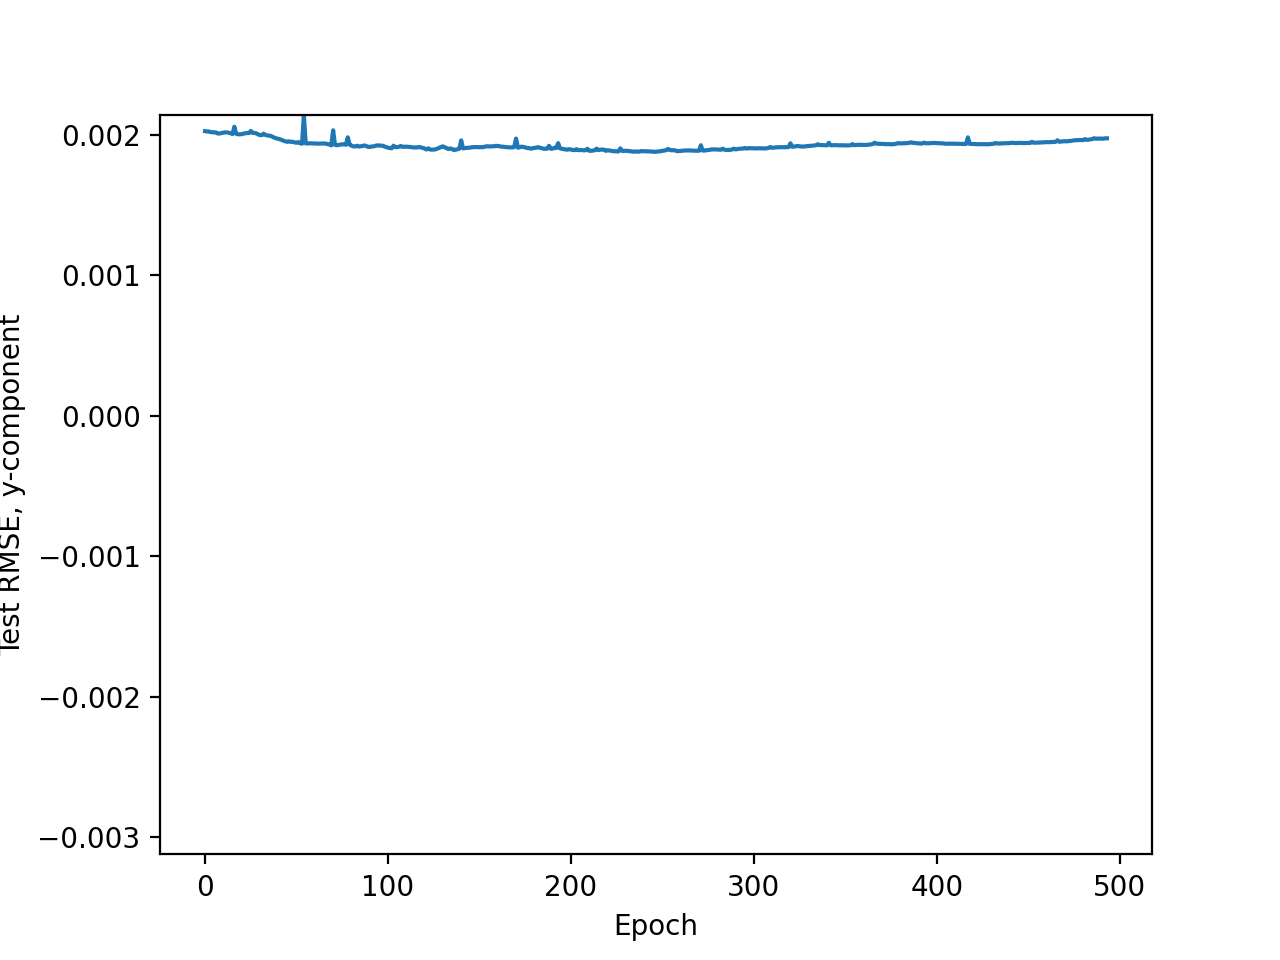
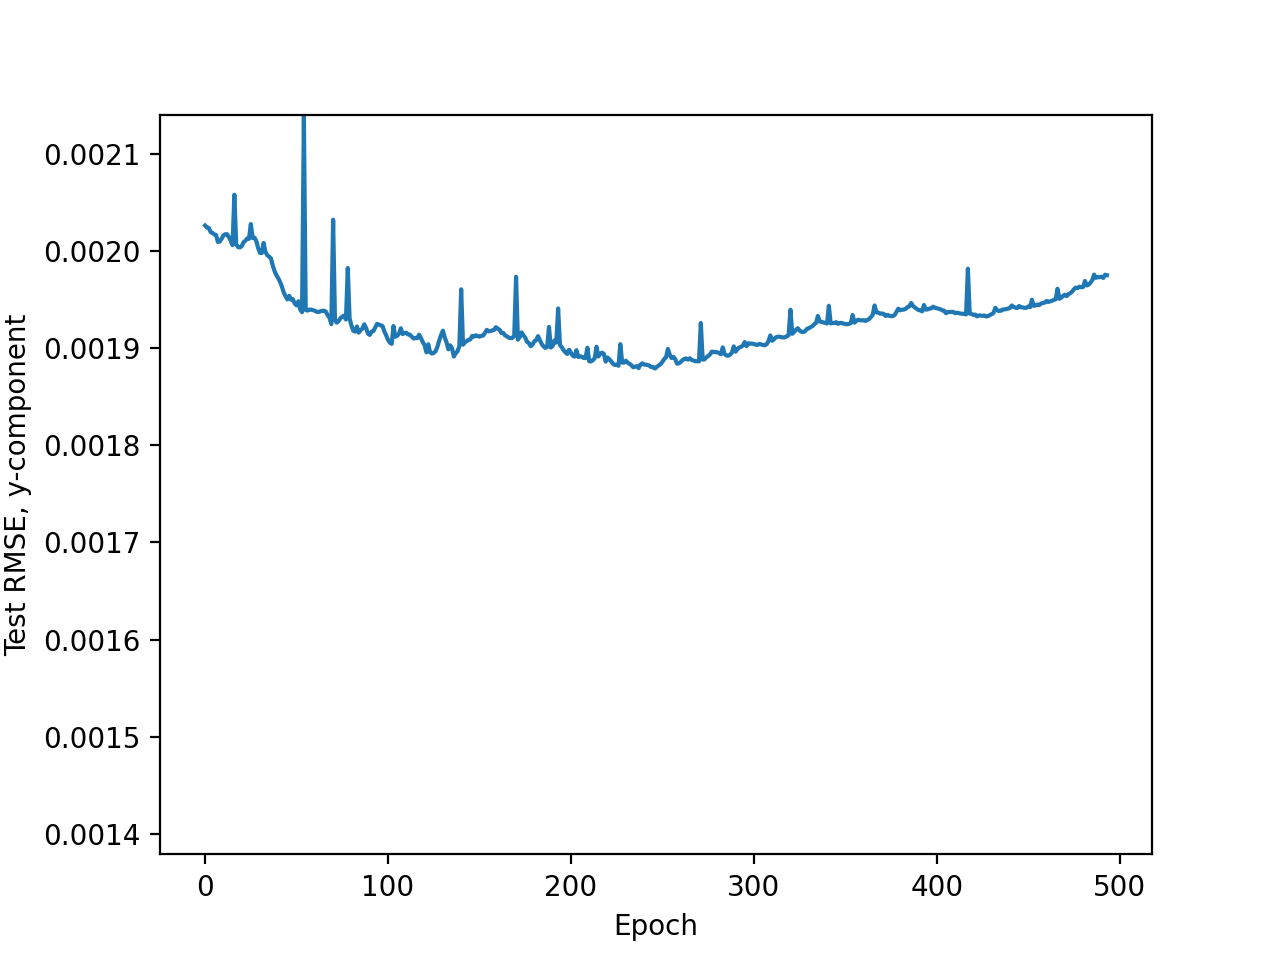
fixed learning curves

diff --git a/aenet/python/training_curve.py b/aenet/python/training_curve.py
@@ -27,12 +27,12 @@ if not (sys.argv[3] == 'True'):
     plt.plot(test_rmse)
     plt.xlabel('Epoch')
     plt.ylabel('Test RMSE, y-component')
-    plt.ylim([min(test_rmse) - 0.005, max(test_rmse)])
+    plt.ylim([min(test_rmse) - 0.0005, max(test_rmse)])
     plt.savefig(f'{outfile}', dpi=200)
 else:
     plt.plot(train_rmse)
     plt.xlabel('Epoch')
     plt.ylabel(f'Train RMSE, {axis}')
-    plt.ylim([min(train_rmse) - 0.005, max(train_rmse)])
+    plt.ylim([min(train_rmse) - 0.0005, max(train_rmse)])
     plt.savefig(f'{outfile}', dpi=200)
 
